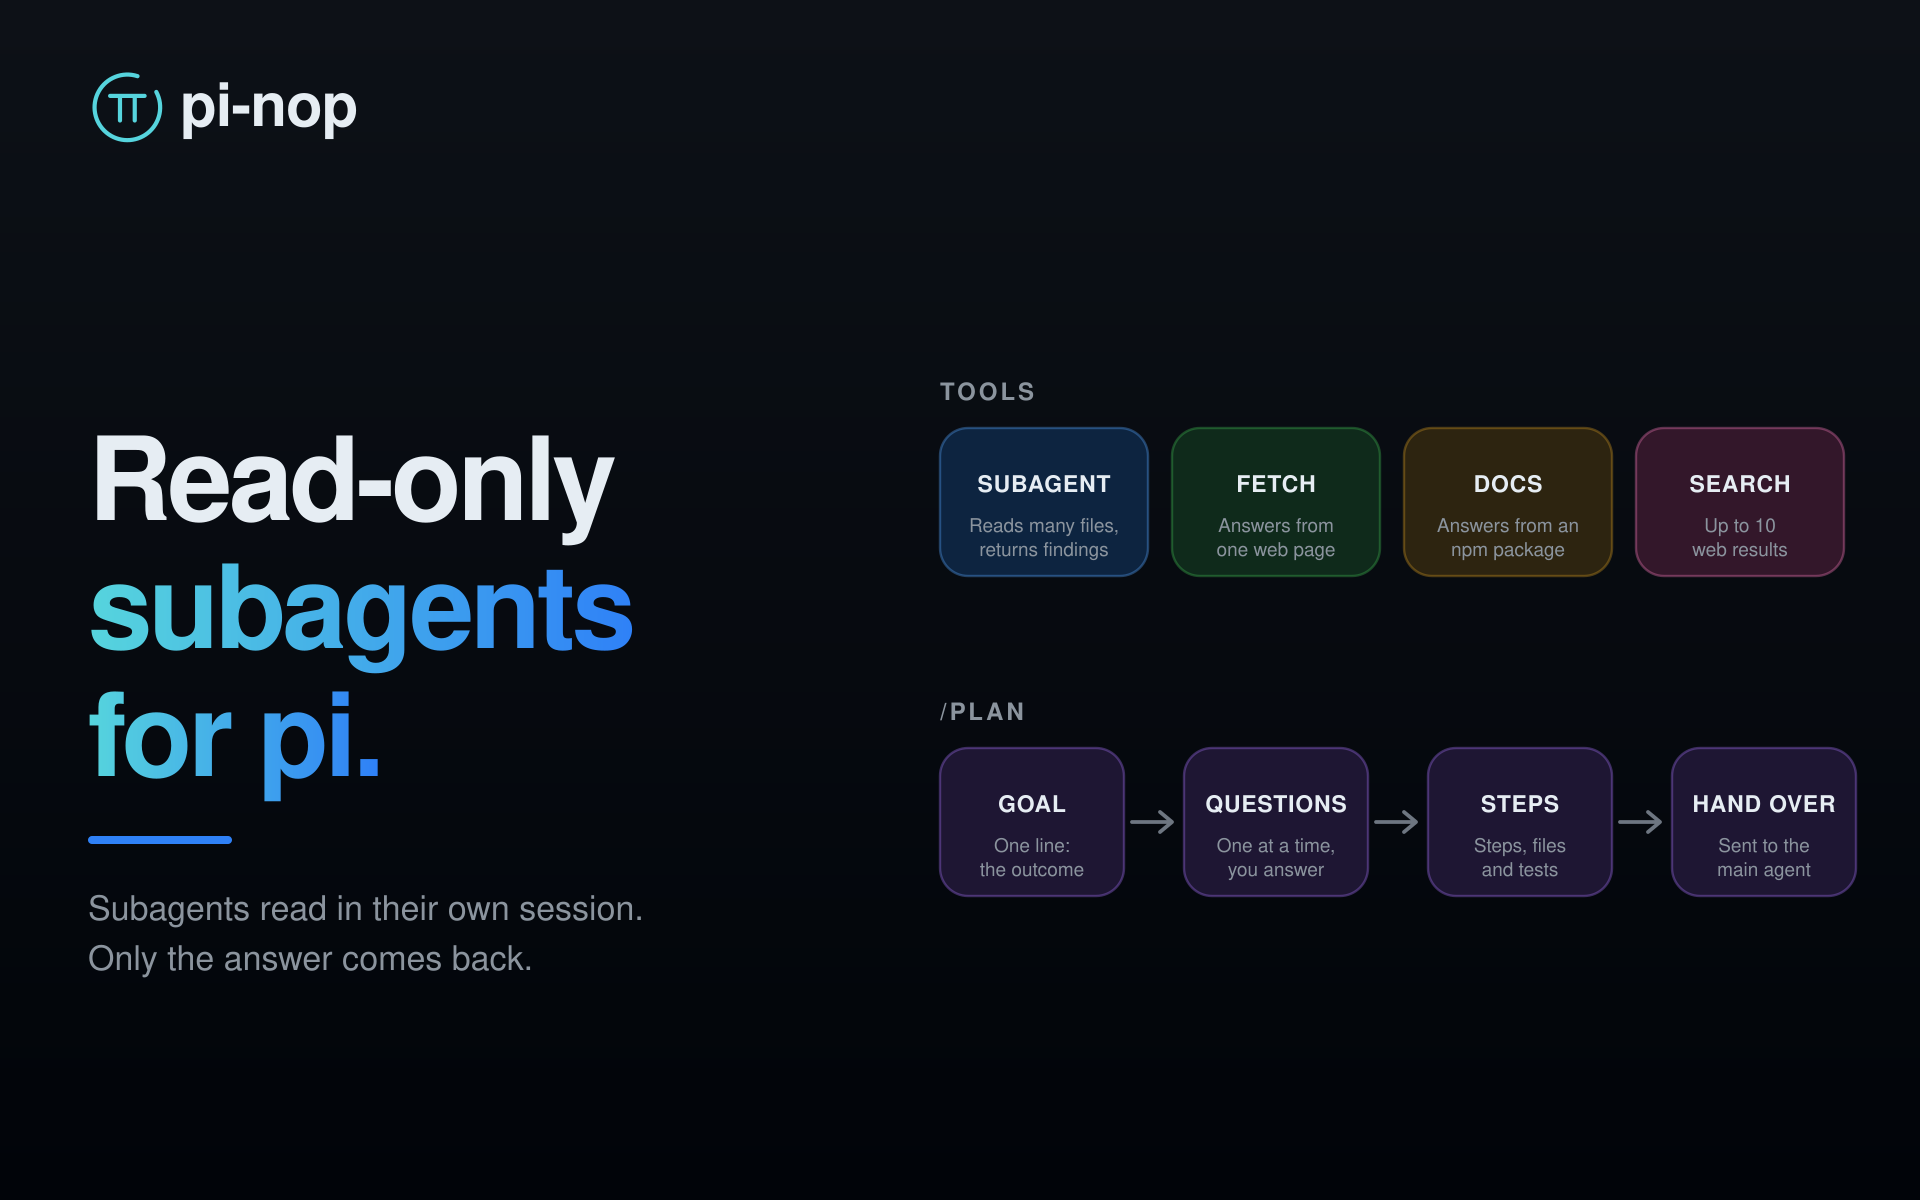
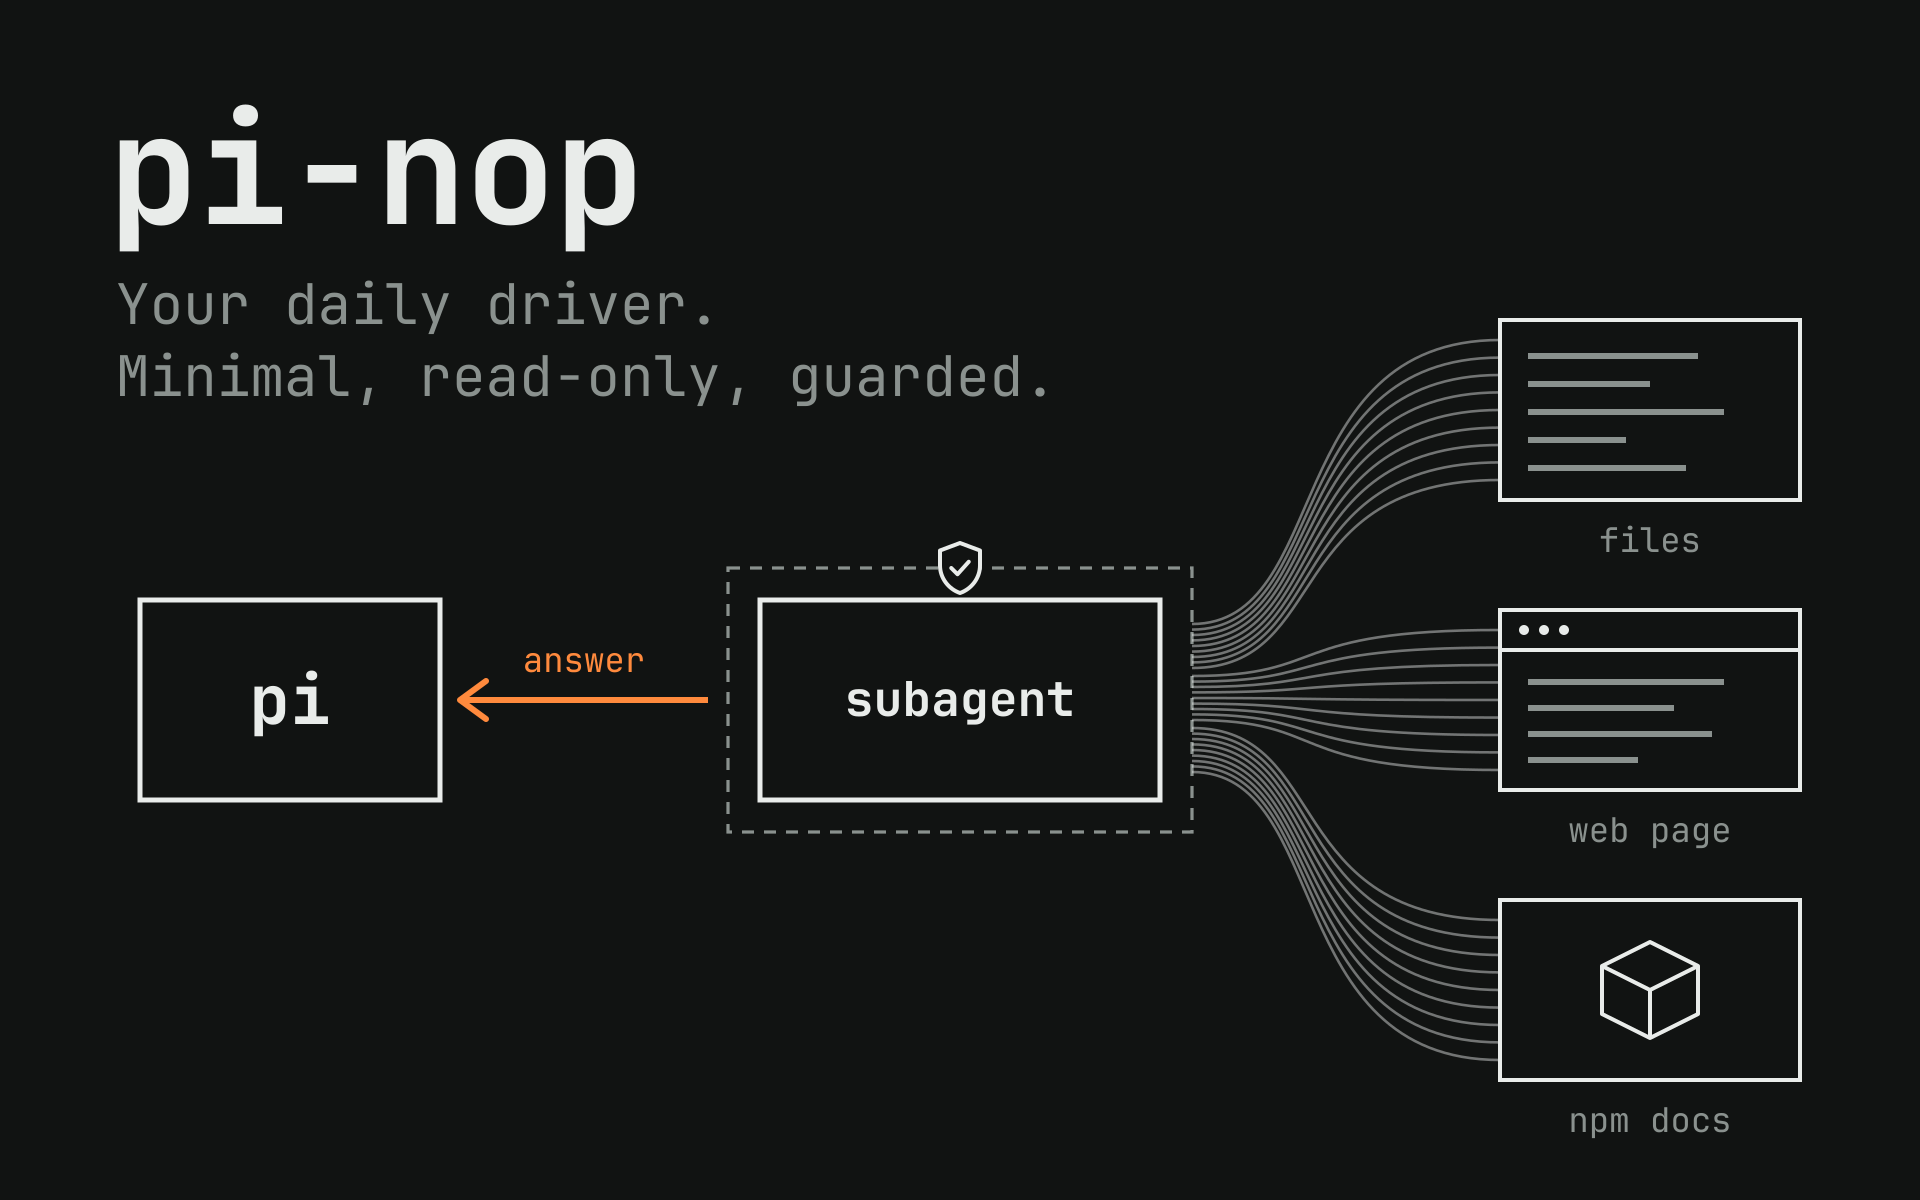
Hero: one plain diagram. Files, a web page and npm docs feed a guarded subagent, one orange answer goes back to pi; pi-nop header with 'Your daily driver. Minimal, read-only, guarded.' The same image is the gallery card, so card.svg and card.png are gone and pi.image points at hero.png

diff --git a/README.md b/README.md
@@ -1,6 +1,6 @@
 <div align="center">
 
-![pi-nop. Read-only subagents for pi. Subagents read in their own session and only the answer comes back. Tools: subagent reads many files and returns findings, fetch answers from one web page, docs answers from an npm package, search gives up to 10 web results. /plan: goal, questions, steps, then the plan is sent to the main agent.](https://raw.githubusercontent.com/mjasnikovs/pi-nop/master/assets/hero.svg)
+![pi-nop. Your daily driver. Minimal, read-only, guarded. Files, a web page and npm docs go into a guarded subagent. One answer goes back to pi.](https://raw.githubusercontent.com/mjasnikovs/pi-nop/master/assets/hero.svg)
 
 # pi-nop
 
